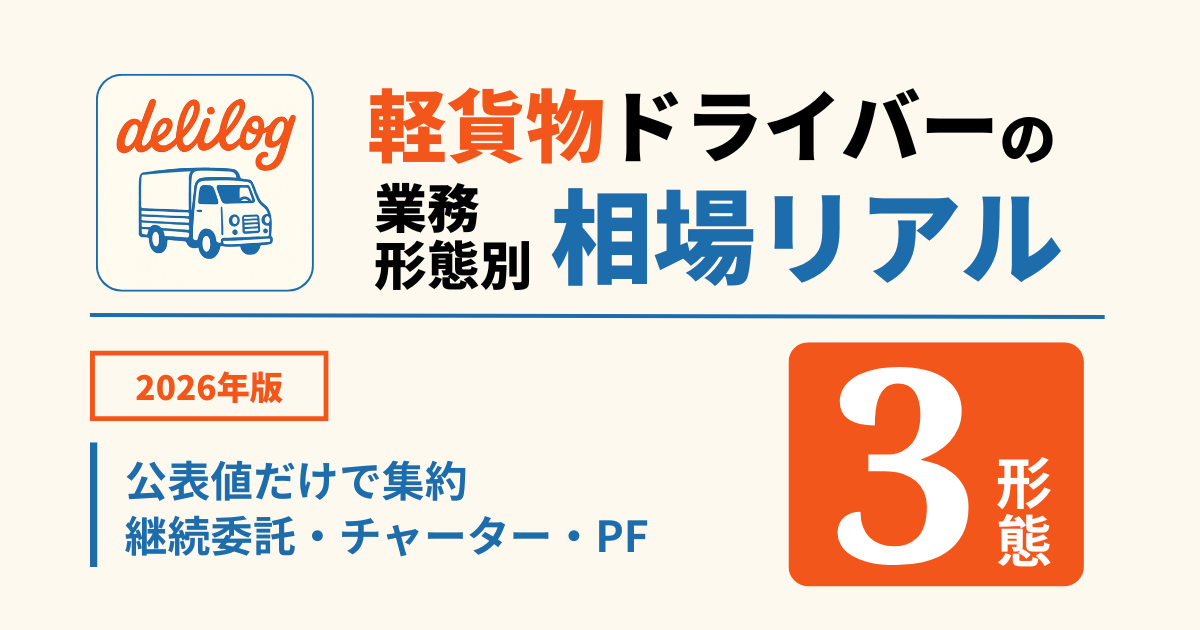
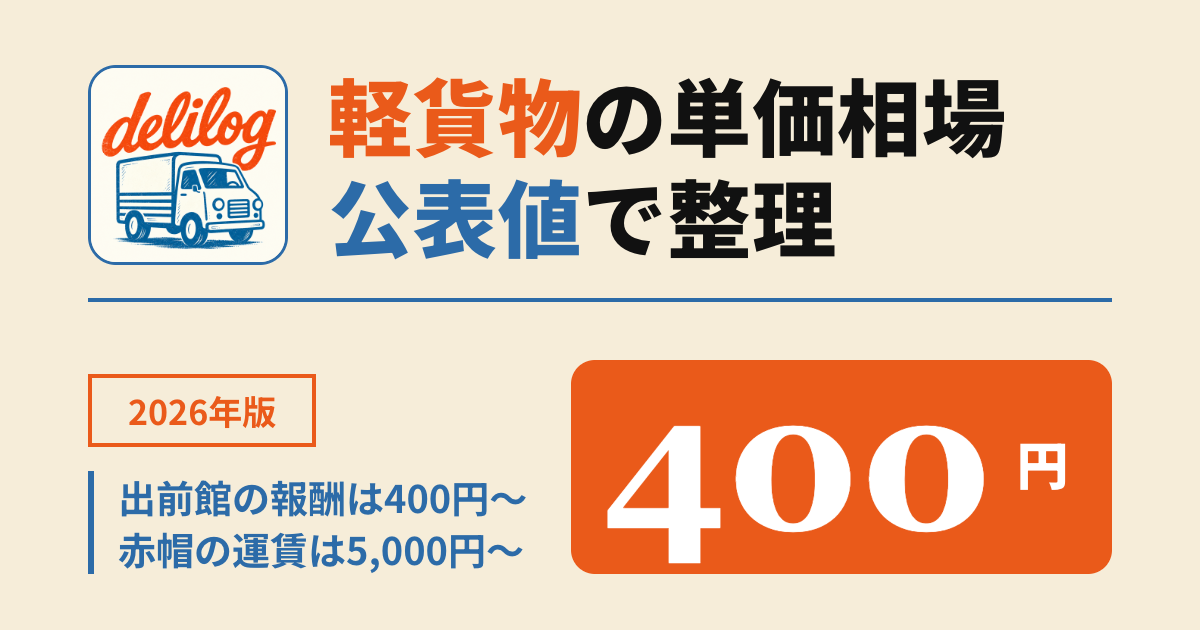
feat(blog): T4 keikamotsu-tanka-soba-2026 図と OG

Changed region(s): [[0.0617, 0.0905, 0.925, 0.5127], [0.0617, 0.5429, 0.925, 0.9349]]

diff --git a/content/figures/keikamotsu-tanka-soba-2026/koushiki-kingaku.html b/content/figures/keikamotsu-tanka-soba-2026/koushiki-kingaku.html
@@ -1,0 +1,9 @@
+<h1 class="fig-title">公式ページで金額を<br>確認できたのは<em>3例</em></h1>
+<div class="fig-body">
+  <div class="fig-card is-accent" data-item>出前館<small>基本報酬400円＋ブースト</small></div>
+  <div class="fig-card is-accent" data-item>Amazon Flex<small>4時間程度で最大9,600円（例示）</small></div>
+  <div class="fig-card is-accent" data-item>赤帽<small>20kmまで5,000円（運賃・税抜）</small></div>
+  <div class="fig-card" data-item>宅配大手・アプリ型は確認できず</div>
+  <div class="fig-note" data-item>2026年11月に確認した範囲</div>
+</div>
+<div class="fig-footer"><span>delilog.app</span><img src="/app_icon.png" alt=""></div>

diff --git a/content/figures/keikamotsu-tanka-soba-2026/akabou-unchin.html b/content/figures/keikamotsu-tanka-soba-2026/akabou-unchin.html
@@ -1,0 +1,10 @@
+<h1 class="fig-title">距離が延びるほど<br><em>1km単価が下がる</em></h1>
+<div class="fig-body">
+  <div class="fig-card is-strong" data-item>20kmまで　5,000円</div>
+  <div class="fig-card" data-item>21〜50km　1kmにつき220円</div>
+  <div class="fig-card" data-item>51〜100km　1kmにつき170円</div>
+  <div class="fig-card" data-item>101〜150km　1kmにつき140円</div>
+  <div class="fig-card" data-item>151km以上　1kmにつき120円</div>
+  <div class="fig-note" data-item>赤帽首都圏の運賃（税抜）。荷主が払う料金で、手取りではない</div>
+</div>
+<div class="fig-footer"><span>delilog.app</span><img src="/app_icon.png" alt=""></div>

diff --git a/content/figures/keikamotsu-tanka-soba-2026/uriage-tedori.html b/content/figures/keikamotsu-tanka-soba-2026/uriage-tedori.html
@@ -1,0 +1,9 @@
+<h1 class="fig-title">売上から経費と税・保険を引いたものが<em>手取り</em></h1>
+<div class="fig-body">
+  <div class="fig-card" data-item>売上</div>
+  <div class="fig-arrow">▼ 経費を引く</div>
+  <div class="fig-card" data-item>所得</div>
+  <div class="fig-arrow">▼ 税・保険を引く</div>
+  <div class="fig-card is-strong" data-item>手取り</div>
+</div>
+<div class="fig-footer"><span>delilog.app</span><img src="/app_icon.png" alt=""></div>

diff --git a/docs/plans/blog-keikamotsu-tanka-soba-2026.md b/docs/plans/blog-keikamotsu-tanka-soba-2026.md
@@ -22,7 +22,7 @@ WORKTREE: /Users/narajunichi/delilog-website/.claude/worktrees/blog-keikamotsu-t
 - [x] T1: ファクトチェック — 03-fact-check.md。裏が取れない主張は「削除」「書き換え」と判定
 - [x] T2: プロダクト整合性 — 04-consistency.md
 - [x] T3: 執筆 — content/blog/keikamotsu-tanka-soba-2026.md。blog:stats が OK
-- [ ] T4: 図と OG — content/figures/keikamotsu-tanka-soba-2026/。blog:figures が OK
+- [x] T4: 図と OG — content/figures/keikamotsu-tanka-soba-2026/。blog:figures が OK
 - [ ] T5: 最終レビュー — 06-review.md。5つの検証コマンドがすべて OK、スマホのスクショを目で確認
 - [ ] T6: 公開準備 — 被リンク元のアンカー更新、konenashi の案内の言い換え、旧 PNG の削除、BLOG_BACKLOG 更新、push、プレビュー URL を取得
 
@@ -33,6 +33,7 @@ WORKTREE: /Users/narajunichi/delilog-website/.claude/worktrees/blog-keikamotsu-t
 | T1 | (このコミット) | 26件: 採用12・書き換え9・削除5。M055〜M057 追記。Amazon Flex が公式に金額（4時間程度で最大9,600円）を出しており結論を3社に変更 |
 | T2 | (このコミット) | 不整合2件（CTA の「実単価が見える」「自動で算出」）を修正。03 の判定を構成書へ反映。タイトルは維持 |
 | T3 | (このコミット) | 本文を丸ごと置き換え。5,241字（旧 21,091字）・CTA 2枚・FAQ 4問 |
+| T4 | (このコミット) | koushiki-kingaku・akabou-unchin・uriage-tedori・OG（400円）。最小文字 44px |
 
 ## 失敗カウンタ
 
